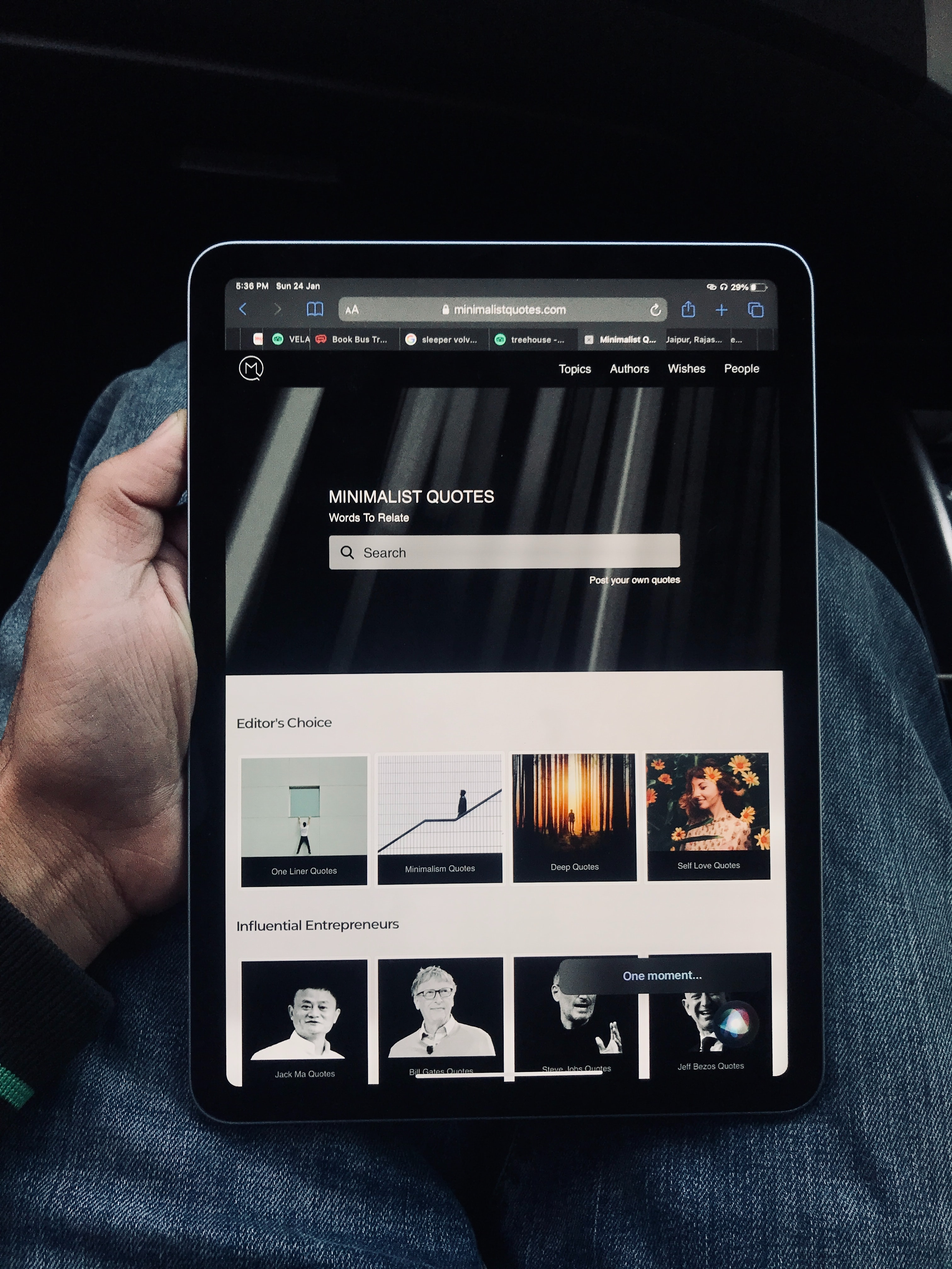
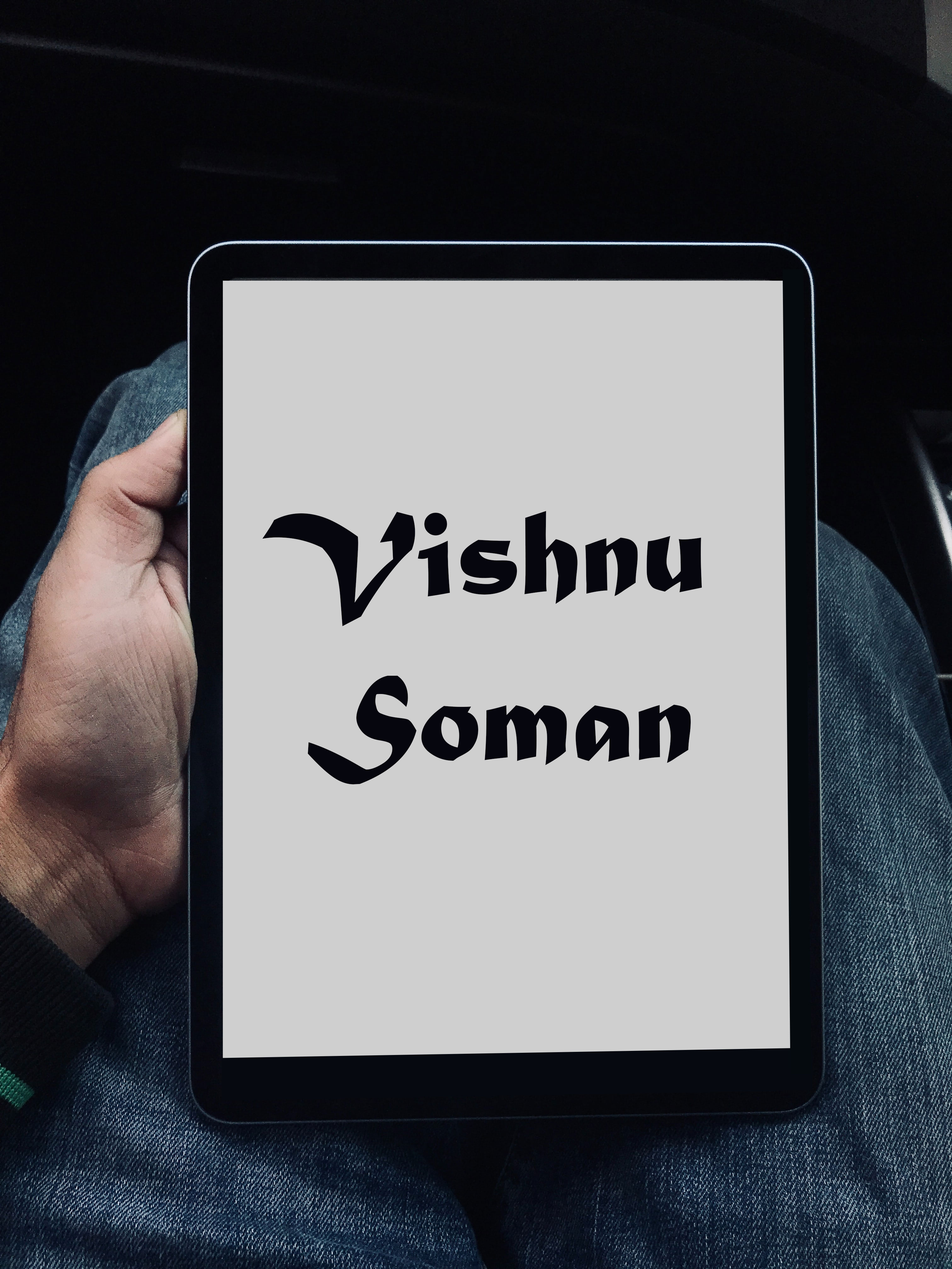
halfway3

Changed region(s): [[0.2176, 0.2188, 0.8393, 0.875]]

diff --git a/src/components/Mobview.jsx b/src/components/Mobview.jsx
@@ -13,7 +13,7 @@ import mypic from "assets/mypic.png"
 import {KeyboardDoubleArrowDown} from '@mui/icons-material';
 
 import mob from 'assets/mob.jpg'
-import bg from 'assets/peakpx.jpg'
+//import bg from 'assets/peakpx.jpg'
 import Sidebar from 'components/Sidebar.jsx'
 
 import css from 'assets/css.png'
@@ -78,18 +78,8 @@ backgroundImage: `url(${mob})`, backgroundSize: "99.5%",
 </Box>
 </Box>
 
-<Box sx={{boxShadow:15,}} width="75vh" height="100vh" >
-<img src={mob}
-width="100%" 
-height="100%"
-/>
-</Box>
 
-{bar && 
-<Box width="auto" height="50%" style={{position:"absolute", zIndex:"310",top:"5%", left:"25%",}}>
-<Sidebar heigh="60vh" />
-</Box>
-}
+
 
 {/* chain of left apps */}
 <Box display="Grid"   marginTop="5%" style={{position:"absolute", zIndex:"303",top:"5%", left:"1%",}}>
@@ -158,7 +148,7 @@ height="95%"
 
 <Box display="Grid" marginTop="4%" style={{position:"absolute", zIndex:"305",top:"5%", left:"90vw",}}>
 
-<Box display="flex" justifyContent="center" width="6vw" height="5vh"  sx={{marginTop:"1vh",}} >
+<Box display="flex" justifyContent="center" width="6vw" height="4vh"  sx={{marginTop:"1vh",}} >
 <img src={git}
 onMouseEnter={() => {setgitQ(true); setlinea("here "); setlineb("here"); setlinec("here"); setlined("here");} }
 onMouseLeave={() => {setgitQ(false);setlinea(""); setlineb(""); setlinec(""); setlined("");} }
@@ -167,7 +157,7 @@ height="95%"
 />
 </Box>
 
-<Box display="flex" justifyContent="center" width="5vw" height="5vh" sx={{marginTop:"9vh"}}>
+<Box display="flex" justifyContent="center" width="5vw" height="5vh" sx={{marginTop:"10vh"}}>
 <img src={html}
 onMouseEnter={() => {sethtmlQ(true); setlinea("here "); setlineb("here"); setlinec("here"); setlined("here");} }
 onMouseLeave={() => {sethtmlQ(false);setlinea(""); setlineb(""); setlinec(""); setlined("");} }
@@ -214,9 +204,22 @@ height="95%"
 
 </Box>
 
+{bar && 
+<Box width="auto" height="50%" style={{position:"absolute", zIndex:"410",top:"5%", left:"22%",}}>
+<Sidebar heigh="60vh" />
+</Box>
+}
+
+<Box sx={{boxShadow:15,}} width="50vh" height="100vh" style={{position:"relative", zIndex:"200",}} >
+<img src={mob}
+width="100%" 
+height="100%"
+/>
+
+
 {/* own project box */}
 
-<Box display="Grid" sx={{border:1, borderRadius:"0.5rem"}} style={{position:"absolute", zIndex:"306",top:"8%", left:"30%",}} backgroundColor="#dfcfcf">
+<Box display="Grid" sx={{border:1, borderRadius:"0.5rem"}} style={{position:"absolute", zIndex:"202",top:"8%", left:"27%",}} backgroundColor="#dfcfcf">
 <Typography textAlign="center" color="white">Own Projects</Typography>
 <Box display="flex">
 <Typography marginRight="2rem" color="white">Ecommerce</Typography>
@@ -226,9 +229,8 @@ height="95%"
 
 {/* tablet show */}
 
-<Box display="Grid" width="215px" height="440px" backgroundColor="white" style={{position:"absolute", zIndex:"307",top:"22%", left:"23%",transform: "rotate(0deg)"}}>
-
-
+<Box display="Grid" width="58%" height="59%"  style={{position:"absolute", zIndex:"203",top:"23%", left:"24%",transform: "rotate(0deg)"}}>
+</Box>
 
 </Box>
 

diff --git a/src/webpages/Portfolio/Portfoliopage.js b/src/webpages/Portfolio/Portfoliopage.js
@@ -7,7 +7,7 @@ import { useNavigate } from "react-router-dom";
 import {Box,Typography,useMediaQuery,Divider,LinearProgress,Button} from "@mui/material";
 
 
-import desk from 'assets/portfolio_desktop-clean.jpg'
+import desk from 'assets/portfolio_desktopwtext.jpg'
 
 import mob from 'assets/mob.jpg'
 
@@ -306,9 +306,9 @@ height="100%"
 
 {/* main tab displaying results */}
 
-<Box width="27.5%" height="16.8%" backgroundColor="rgb(255,255,255)" style={{position:"absolute", zIndex:"6",top:"46.5%", left:"48.4%"}}>
+<Box width="27.5%" height="16.8%"  style={{position:"absolute", zIndex:"6",top:"46.5%", left:"48.4%"}}>
 
-  {!gameQ && !chiperQ && !mdbQ && !htmlQ && !cssQ && !jsQ && !nodeQ && !expressQ && !reactQ && !reduxQ && !sqlQ && !gitQ && !bootstrapQ && !muiQ &&
+  { /*!gameQ && !chiperQ && !mdbQ && !htmlQ && !cssQ && !jsQ && !nodeQ && !expressQ && !reactQ && !reduxQ && !sqlQ && !gitQ && !bootstrapQ && !muiQ &&
   <>
   <Box src={chiper}
   width="100%"
@@ -326,7 +326,7 @@ height="100%"
   </Box>
 
   </>
-   }
+*/}
 
 
   {chiperQ &&
